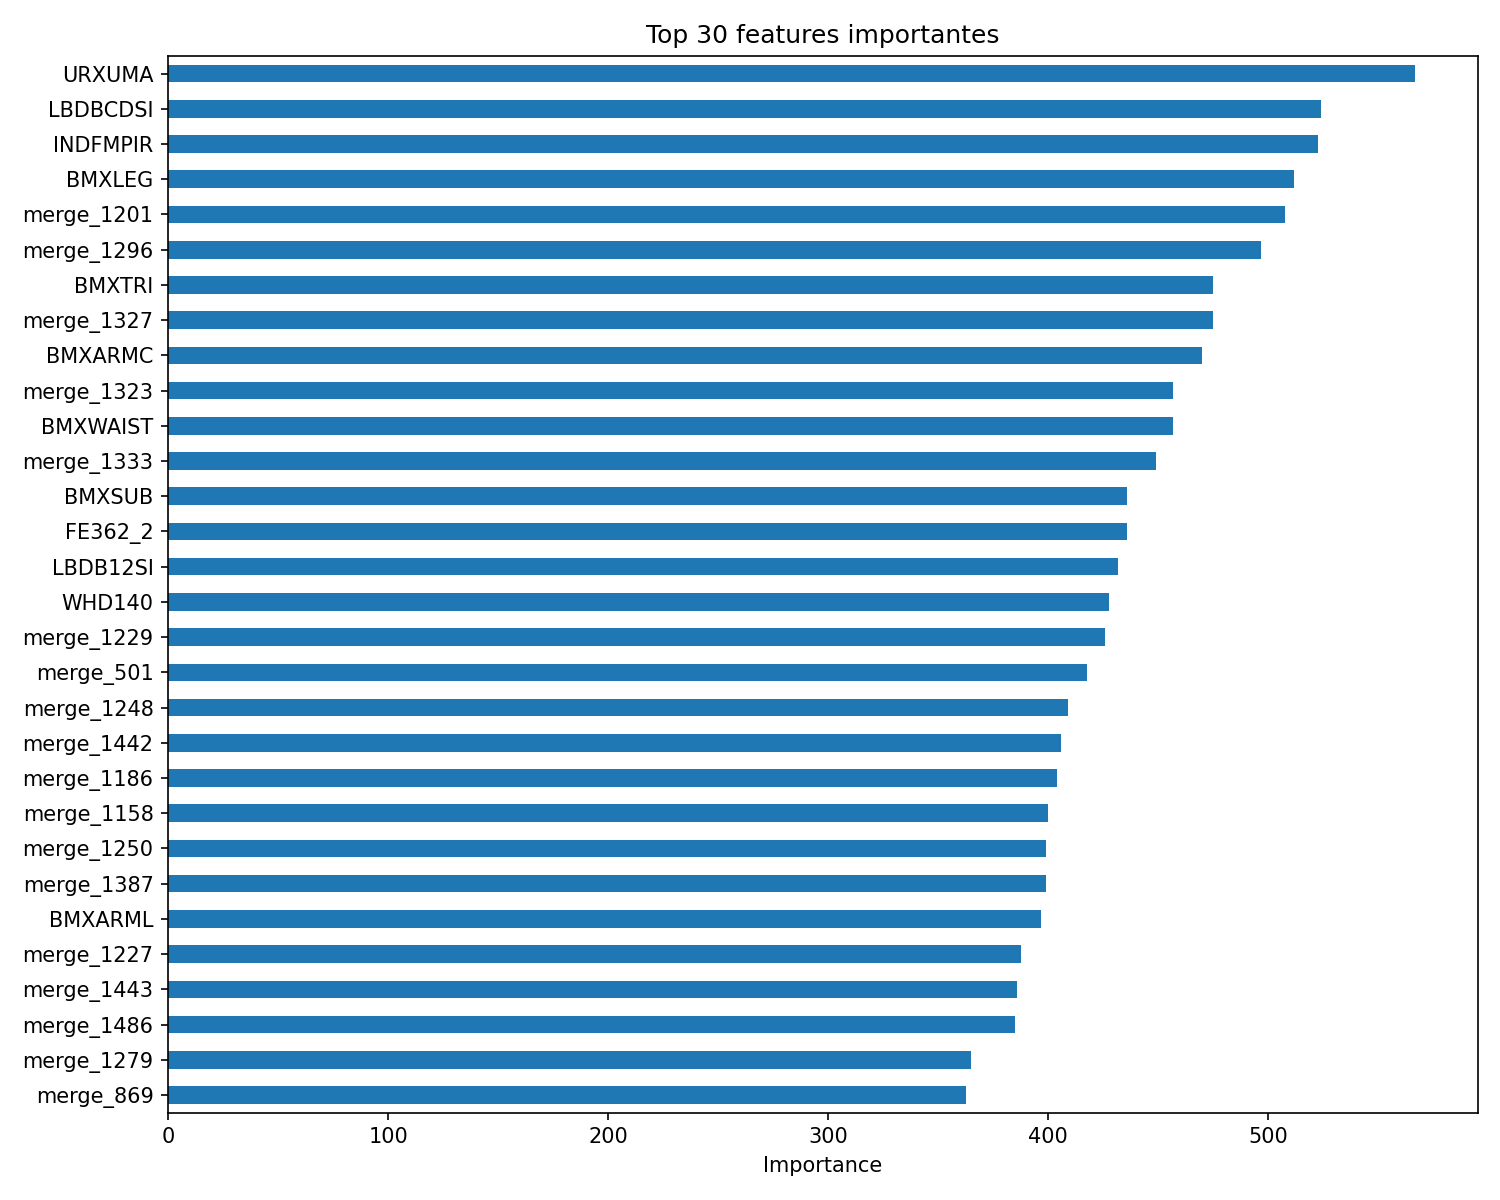
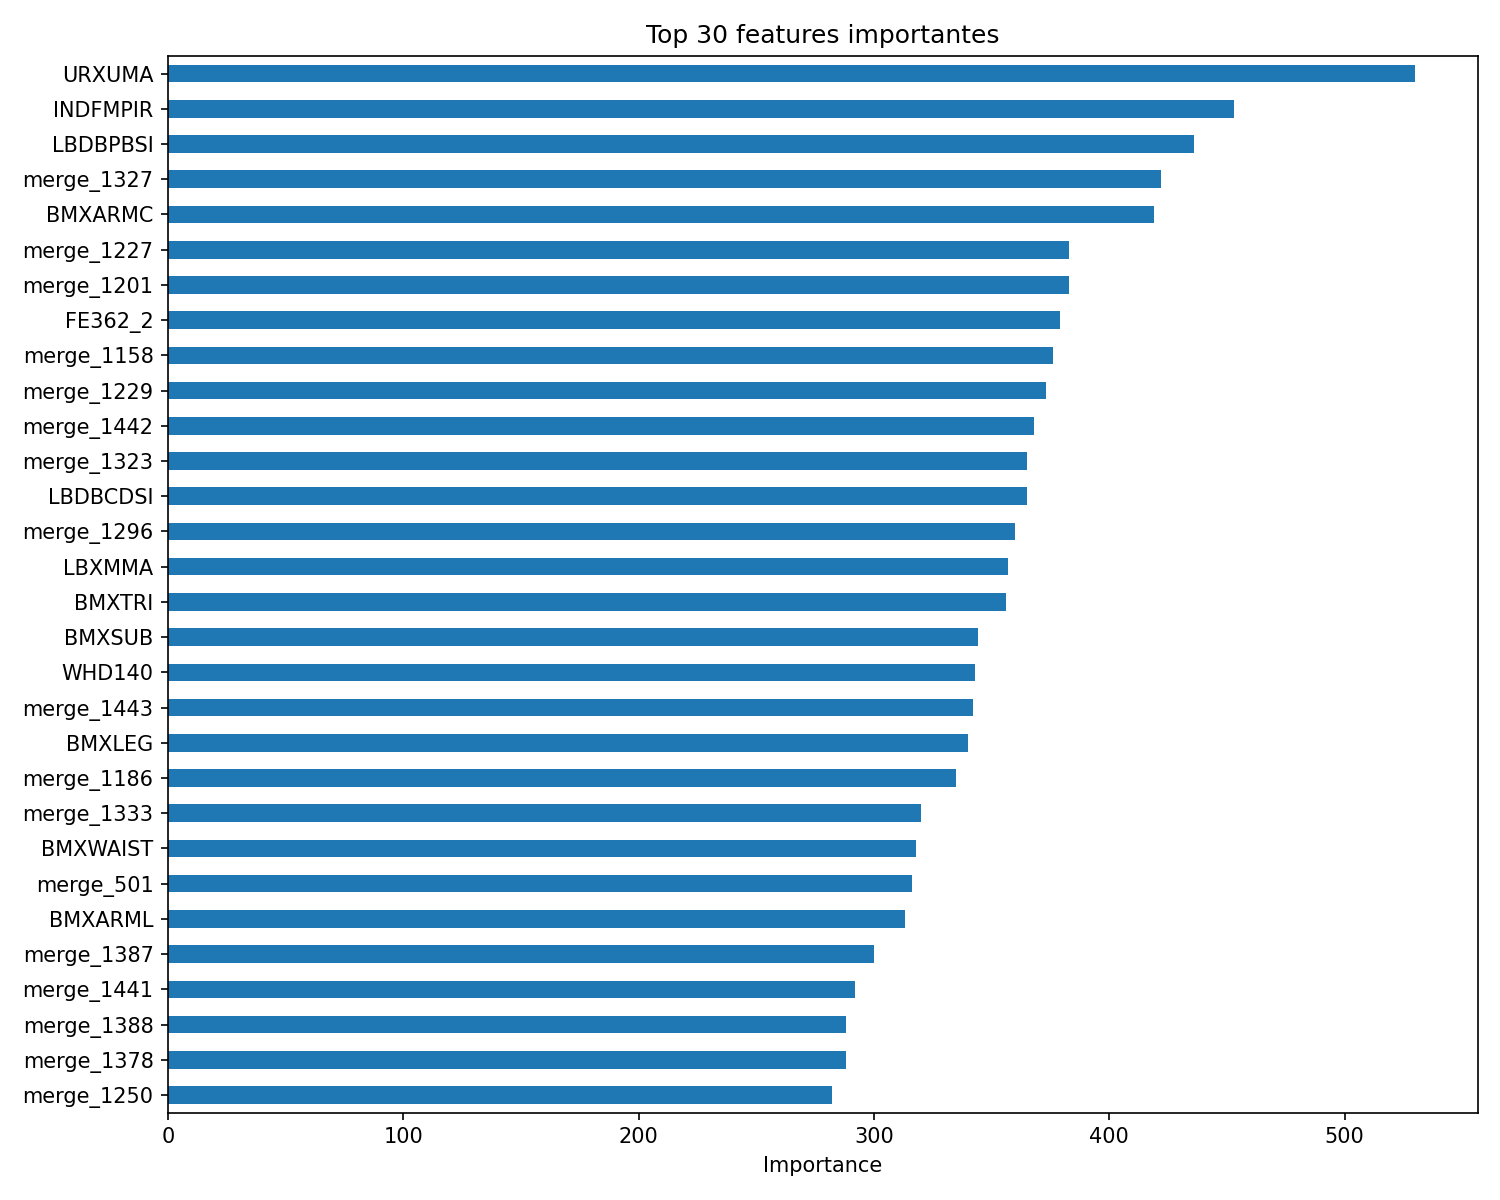
pretraitement correction

diff --git a/pretraitement.py b/pretraitement.py
@@ -32,14 +32,30 @@ class Preview:
     @staticmethod
     def show_as_graph(missing_values, path):
         os.makedirs(os.path.dirname(path), exist_ok=True)
+
+        filtered = missing_values[missing_values > 0]
+
+        if filtered.empty:
+            plt.figure(figsize=(6, 3))
+            plt.text(0.5, 0.5, 'Aucune valeur manquante',
+                    ha='center', va='center', fontsize=14,
+                    transform=plt.gca().transAxes)
+            plt.axis('off')
+            plt.tight_layout()
+            plt.savefig(path)
+            plt.close()
+            print(f"Aucune valeur manquante — graphique vide sauvegardé : {path}")
+            return
+
         plt.figure(figsize=(10, 6))
-        missing_values[missing_values > 0].plot(kind='bar')
+        filtered.plot(kind='bar')
         plt.title('Missing Values per Column')
         plt.xlabel('Columns')
         plt.ylabel('Number of Missing Values')
         plt.tight_layout()
         plt.savefig(path)
         plt.close()
+
     @staticmethod
     def correlation_matrix(df, name, threshold=0.8):
         df_numeric = df.select_dtypes(include=[np.number])
@@ -115,7 +131,7 @@ class Preview:
 
 
     @staticmethod
-    def clean(df, target_col=None, nan_thresh=0.80, corr_thresh=0.95, var_thresh=0.01, nan_row_thresh=0.7, scale=True):
+    def clean(df, target_col=None, nan_thresh=0.80, corr_thresh=0.95, var_thresh=0, nan_row_thresh=0.7, scale=True):
         """
         Nettoie le DataFrame :
         1. Supprime les lignes problématiques (vides, trop de NaN, doublons).
@@ -276,7 +292,85 @@ class Preview:
 
         return df_scaled, scaler
 
-# ─── Main ───────────────────────────────────────────────────────────────────────
+    @staticmethod                              # ← bien indenté dans la classe
+    def analyze_columns(df, nan_thresh_report=0.2):
+        results = []
+        for col in df.columns:
+            series      = df[col].dropna()
+            n_total     = len(df[col])
+            n_missing   = df[col].isnull().sum()
+            pct_missing = n_missing / n_total
+            unique_vals = sorted(series.unique())
+            n_unique    = len(unique_vals)
+
+            is_binary = set(unique_vals).issubset({0, 1, 0.0, 1.0})
+
+            if is_binary:
+                col_type = 'binaire'
+                rate_1   = series.mean()
+                nan_likely_zero = (pct_missing > 0.3) and (rate_1 < 0.5)
+                suggestion = 'NaN → 0 (probable absent)' if nan_likely_zero else 'NaN → mode'
+            elif n_unique <= 10:
+                col_type   = 'catégorielle'
+                suggestion = 'NaN → mode'
+            else:
+                col_type = 'continue'
+                skewness = series.skew()
+                suggestion = 'NaN → médiane' if abs(skewness) > 1 else 'NaN → moyenne'
+
+            results.append({
+                'colonne'      : col,
+                'type'         : col_type,
+                'n_unique'     : n_unique,
+                'valeurs_uniq' : str(unique_vals[:5]),
+                'pct_nan'      : round(pct_missing * 100, 1),
+                'suggestion'   : suggestion
+            })
+
+        report = pd.DataFrame(results)
+
+        print("\n=== Résumé des types de colonnes ===")
+        print(report['type'].value_counts().to_string())
+        print(f"\nColonnes avec > {nan_thresh_report*100:.0f}% de NaN :")
+        print(report[report['pct_nan'] > nan_thresh_report * 100][
+            ['colonne', 'type', 'pct_nan', 'suggestion']
+        ].to_string(index=False))
+
+        os.makedirs('fig', exist_ok=True)
+        report.to_csv(os.path.join('fig', 'column_analysis.csv'), index=False)
+        print("\nAnalyse sauvegardée dans fig/column_analysis.csv")
+
+        return report
+    
+
+    @staticmethod                              # ← bien indenté dans la classe
+    def smart_impute(df, column_report):
+        df = df.copy()
+
+        for _, row in column_report.iterrows():
+            col        = row['colonne']
+            suggestion = row['suggestion']
+            if col not in df.columns:
+                continue
+
+            if 'NaN → 0' in suggestion:
+                df[col] = df[col].fillna(0)
+            elif 'mode' in suggestion:
+                mode_val = df[col].mode()
+                if len(mode_val) > 0:
+                    df[col] = df[col].fillna(mode_val[0])
+            elif 'médiane' in suggestion:
+                df[col] = df[col].fillna(df[col].median())
+            elif 'moyenne' in suggestion:
+                df[col] = df[col].fillna(df[col].mean())
+
+        remaining_nan = df.isnull().sum().sum()
+        print(f"NaN restants après imputation : {remaining_nan}")
+
+        return df
+
+'''
+ ─── Main ───────────────────────────────────────────────────────────────────────
 # Charger les données et le ground truth
 df_data = Preview.load_and_preview(Preview.file_data)
 df_truth = Preview.load_and_preview(Preview.file_ground_truth_train)
@@ -306,3 +400,4 @@ scaler_path = os.path.join('models', 'scaler.joblib')
 os.makedirs(os.path.dirname(scaler_path), exist_ok=True)
 joblib.dump(scaler, scaler_path)
 print(f"Scaler sauvegardé : {scaler_path}")
+'''

diff --git a/Main.py b/Main.py
@@ -3,37 +3,46 @@ import pandas as pd
 from pretraitement import Preview
 from model import Model
 
-# ─── Main ───────────────────────────────────────────────────────────────────────
-# Charger les données et le ground truth
-df_data = Preview.load_and_preview(Preview.file_data)
+# --- Chargement ---
+df_data  = Preview.load_and_preview(Preview.file_data)
 df_truth = Preview.load_and_preview(Preview.file_ground_truth_train)
+df       = df_data.merge(df_truth, on='SEQN', how='left')
 
-# Fusionner pour avoir la cible dans le DataFrame
-df = df_data.merge(df_truth, on='SEQN', how='left')
-
-# Nettoyer
-df_clean, dropped_cols = Preview.clean(df, target_col='MORTSTAT_2019', nan_thresh=0.61, corr_thresh=0.95, var_thresh=0.01)
-
-# Sauvegarder
+# --- Nettoyage (sans normalisation) ---
+df_clean, _, dropped_cols = Preview.clean(
+    df, target_col='MORTSTAT_2019',
+    nan_thresh=0.61, corr_thresh=0.95,
+    var_thresh=0, scale=False
+)
 df_clean.to_csv(os.path.join('data', 'data_clean.csv'), index=False)
-print(f"\nDonnées nettoyées sauvegardées")
+print("Données nettoyées sauvegardées")
 
-df_data_clean = Preview.load_and_preview(os.path.join('data', 'data_clean.csv'))
-Preview.analyze_missing_values(df_data_clean, 'data_clean')
+# --- Analyse et imputation ---
+report     = Preview.analyze_columns(df_clean)
+df_imputed = Preview.smart_impute(df_clean, report)
 
-# ─── Main ────────────────────────────────────────────────────────────────────
+# Sauvegarder la version imputée (sans scale) → utilisée par LightGBM / XGBoost
+df_imputed.to_csv(os.path.join('data', 'data_imputed.csv'), index=False)
+print("Données imputées sauvegardées")
+
+# Sauvegarder la version imputée + scalée → utilisée si tu testes SVM / LogReg
+df_imputed_scaled, scaler = Preview.scale_features(df_imputed, target_col='MORTSTAT_2019')
+df_imputed_scaled.to_csv(os.path.join('data', 'data_imputed_scaled.csv'), index=False)
+print("Données imputées et normalisées sauvegardées")
+
+# --- Vérification ---
+Preview.analyze_missing_values(df_imputed, 'data_imputed')
+
+# --- Modèle (charge data_imputed.csv) ---
 X_train, y_train, X_test, seqn_test = Model.load_data()
+model, X_val, y_val                 = Model.train(X_train, y_train)
+f1, best_threshold                  = Model.evaluate(model, X_val, y_val)
+feat_imp                            = Model.feature_importance(model, X_train, top_n=30)
 
-model, X_val, y_val = Model.train(X_train, y_train)
-
-f1, best_threshold = Model.evaluate(model, X_val, y_val)
-
-feat_imp = Model.feature_importance(model, X_train, top_n=30)
-
-# Soumission avec seuil optimisé
+# --- Soumission ---
 Model.predict_and_submit(
     model, X_test, seqn_test,
-    group_id='4',       # ← Remplace par ton ID de groupe
+    group_id='4',
     submission_id='2',
-    threshold=best_threshold    # Utilise le seuil optimisé pour le F1
+    threshold=best_threshold
 )
